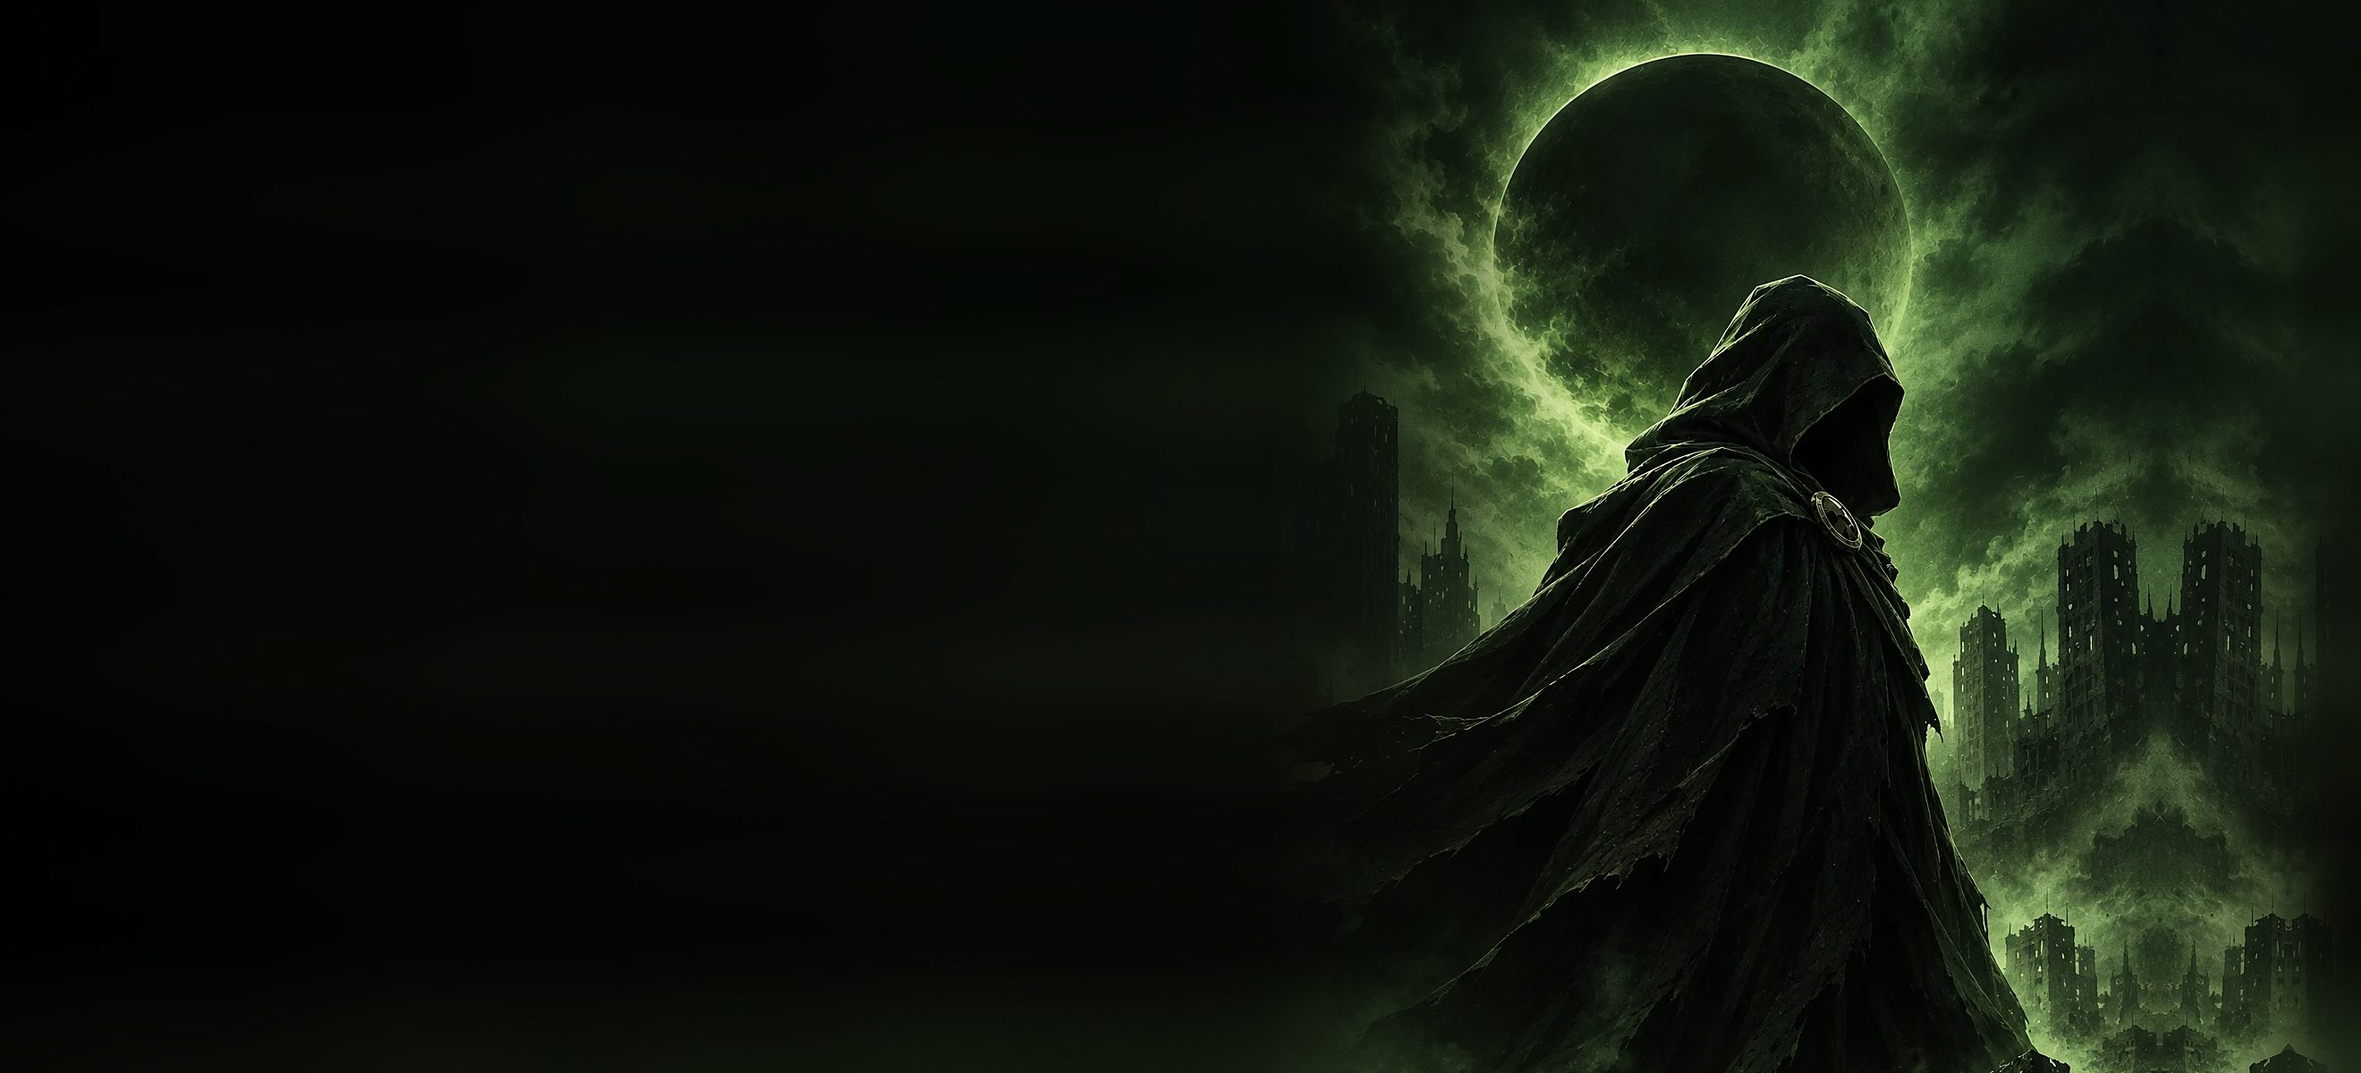
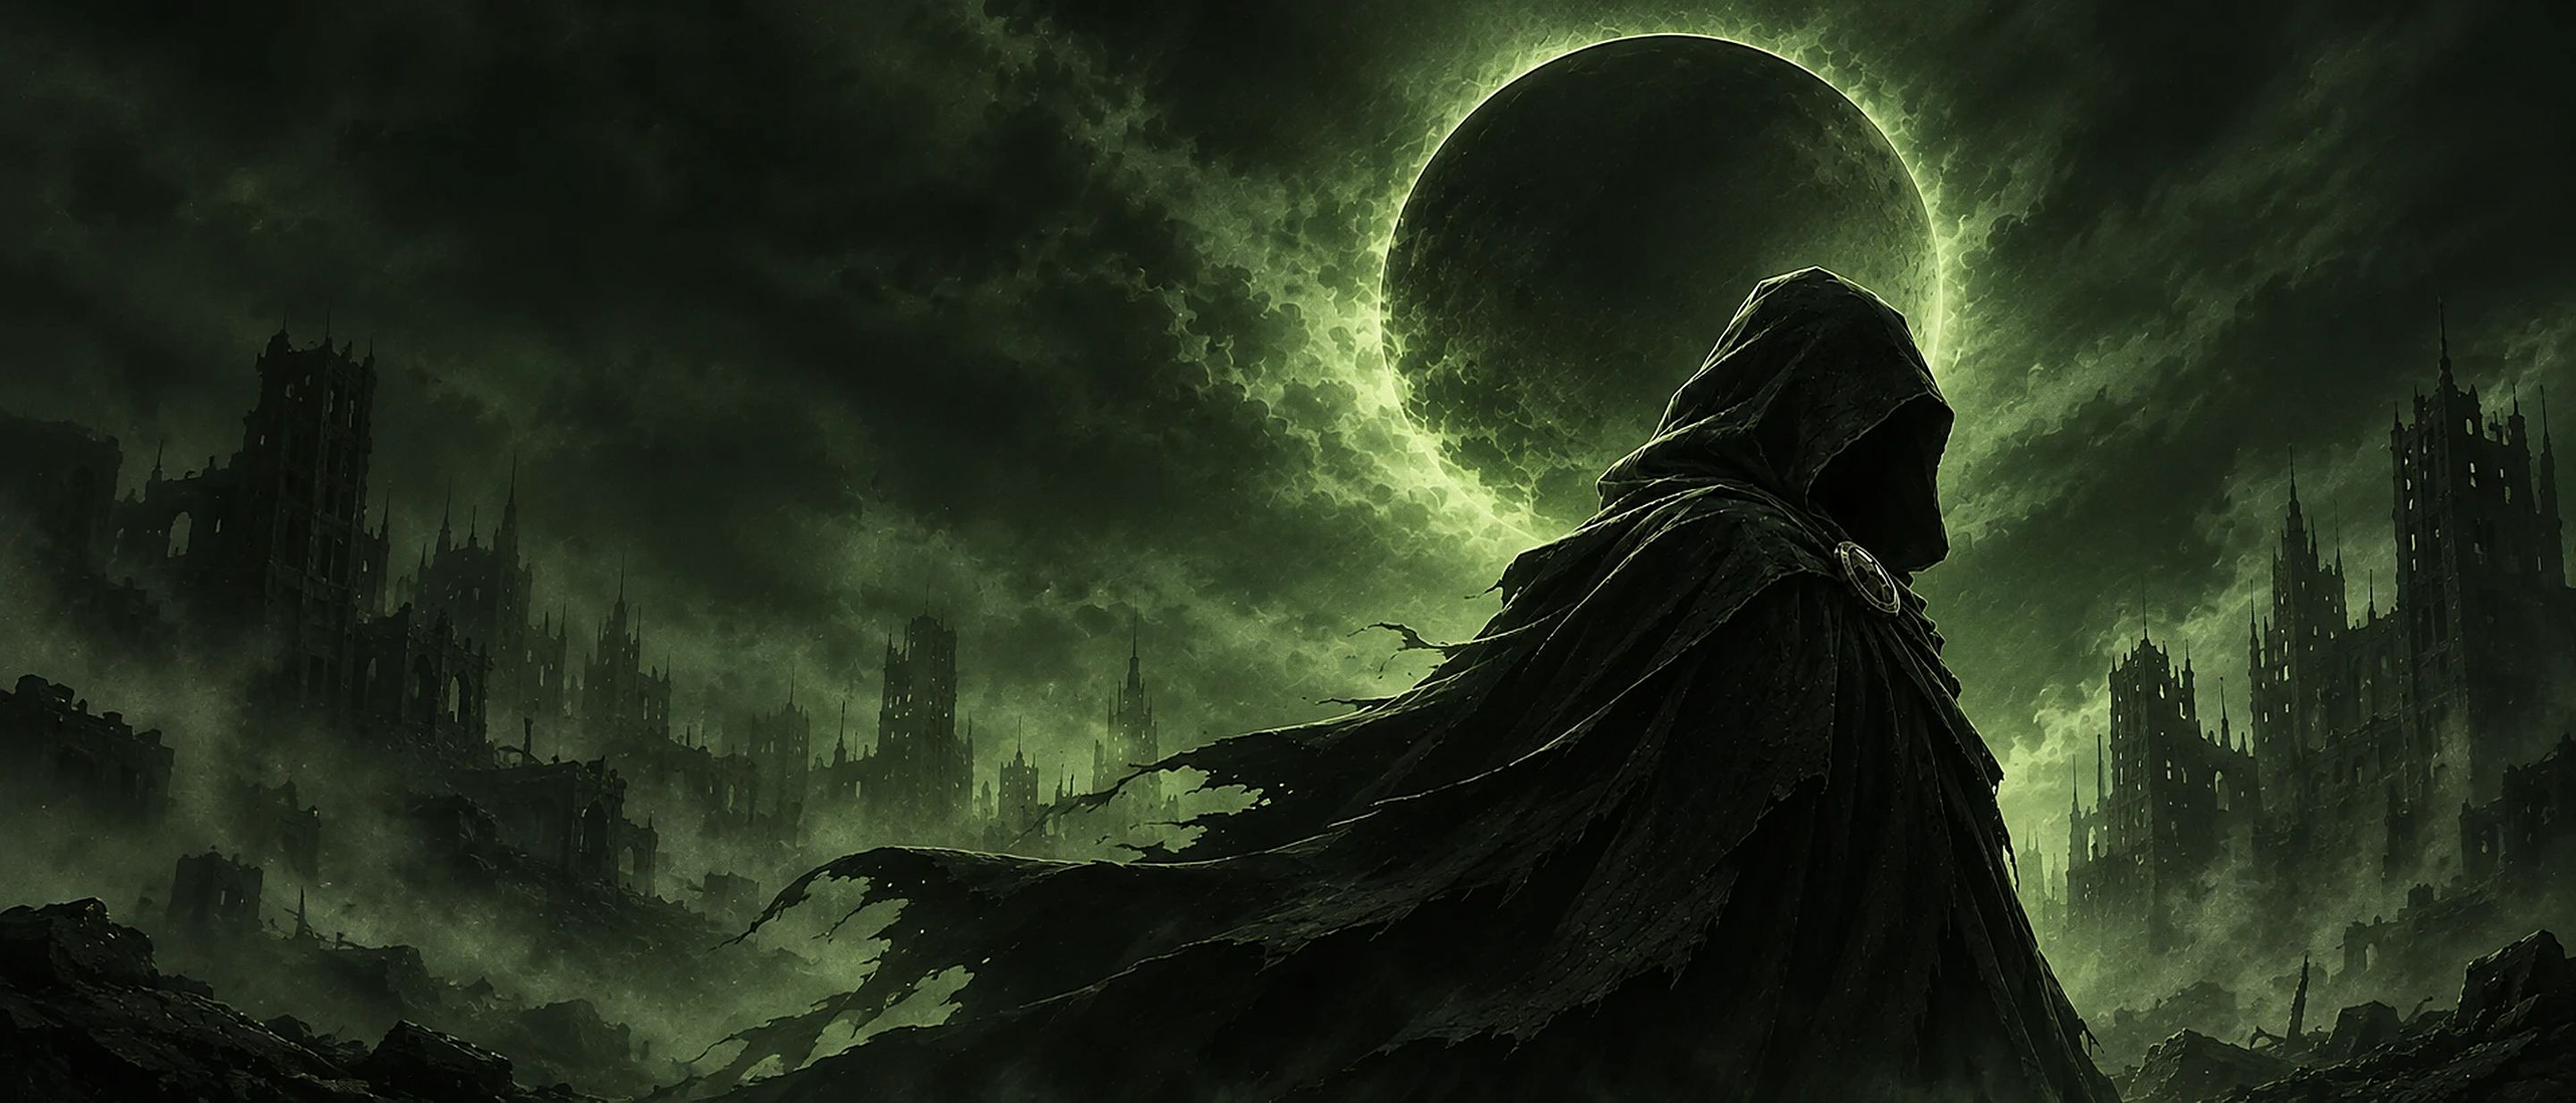
Laptop hero: the club's wide Professor Kalyug scene
Laptops and desktops now use the club's 21:9 art (kalyug-wide.webp): the figure
before the eclipse on the right and the ruined city carrying on across the left,
so the title sits over scenery instead of empty fog. The dark overlay on the
left is much lighter (it only keeps the text readable), and the crop is centred
so the eclipse sits about two thirds across from 1024 px to 2560 px. Phones keep
the portrait.

hero_art.py now takes both pieces of art from assets/art and upscales the wide
one to 2880 px for retina laptops. The link preview is rebuilt from it.

Claude-Session: https://claude.ai/code/session_01EFY1MnNAJYYbQtriE75PiZ

diff --git a/app/(site)/page.tsx b/app/(site)/page.tsx
@@ -41,10 +41,10 @@ export default async function Landing() {
         </div>
 
         <div className="flex min-h-[calc(100svh-6.25rem)] flex-col lg:block lg:min-h-0">
-          {/* Professor Kalyug before the eclipse: the portrait on phones, widened on laptops */}
+          {/* Professor Kalyug before the eclipse: the portrait on phones, the wide scene on laptops */}
           <div className="relative -z-20 min-h-[13rem] flex-1 overflow-hidden lg:absolute lg:inset-0" aria-hidden="true">
-            <HeroArt className="hero-drift object-cover object-[center_22%] lg:object-[72%_25%]" />
-            <div className="absolute inset-0 bg-[linear-gradient(180deg,rgb(8_10_7/0.3),transparent_14%,transparent_62%,var(--color-abyss))] lg:bg-[linear-gradient(90deg,var(--color-abyss)_0%,rgb(8_10_7/0.88)_30%,rgb(8_10_7/0.35)_58%,transparent_78%)]" />
+            <HeroArt className="hero-drift object-cover object-[center_22%] lg:object-[50%_30%]" />
+            <div className="absolute inset-0 bg-[linear-gradient(180deg,rgb(8_10_7/0.3),transparent_14%,transparent_62%,var(--color-abyss))] lg:bg-[linear-gradient(90deg,rgb(8_10_7/0.7)_0%,rgb(8_10_7/0.5)_30%,rgb(8_10_7/0.12)_50%,transparent_62%)]" />
             <div className="absolute inset-x-0 bottom-0 hidden h-28 bg-gradient-to-b from-transparent to-abyss lg:block" />
           </div>
 

diff --git a/components/art/Poster.tsx b/components/art/Poster.tsx
@@ -15,10 +15,10 @@ import { EVENT } from '@/lib/config';
  */
 
 /**
- * The landing hero: Professor Kalyug from the hood to the waist, before the eclipse (the club's
- * character art, see scripts/art/hero_art.py). Phones and tablets get the portrait; screens
- * 1024 px and wider get it widened to 2.2 : 1 with dark fog on the left for the title. The
- * browser downloads only the one it shows.
+ * The landing hero: Professor Kalyug before the eclipse, from the club's character art (see
+ * scripts/art/hero_art.py). Phones and tablets get the portrait (hood to waist); screens 1024 px
+ * and wider get the wide scene, with the ruined city across the left for the title. The browser
+ * downloads only the one it shows.
  */
 export function HeroArt({ className = '' }: { className?: string }) {
   const common = { alt: '', fill: true, sizes: '100vw', fetchPriority: 'high', loading: 'eager' } as const;

diff --git a/scripts/art/hero_art.py b/scripts/art/hero_art.py
@@ -1,88 +1,43 @@
 """
-The landing hero art, from the club's character art of Professor Kalyug
-(assets/art/kalyug-character.webp: hood to waist, the eclipse behind, ruined towers either side).
+The landing hero art, from the club's character art of Professor Kalyug.
 
-    python3 scripts/art/hero_art.py assets/art/kalyug-character.webp assets/art
+    python3 scripts/art/hero_art.py assets/art
+
+Reads (in assets/art):
+  kalyug-character.webp  portrait (2 : 3): hood to waist before the eclipse
+  kalyug-wide.webp       wide (21 : 9): the same scene, the figure on the right and the ruined
+                         city carrying on across the left, as quiet space for the title
 
 Writes:
-  hero.jpg          phones and tablets: the portrait as it is (2 : 3), with the site's grain.
-                    The page frames it on the hood and eclipse (object-position).
-  hero-desktop.jpg  laptops and desktops, 2.2 : 1: the portrait from the eclipse down to the
-                    waist, set right of centre so the title has the left side. Its left edge
-                    dissolves into a dark fog coloured from the picture itself, and the towers on
-                    its right carry on to the edge, so there is no second figure or seam.
+  hero.jpg          phones and tablets: the portrait, with the site's grain. The page frames it
+                    on the hood and eclipse (object-position).
+  hero-desktop.jpg  laptops and desktops: the wide art, upscaled to 2880 px (sharp on a 1440 px
+                    retina screen), lightly sharpened, with the site's grain.
 """
 import os
 import sys
 
-import numpy as np
 from PIL import Image, ImageChops, ImageFilter
 
-ECLIPSE_X = 510          # the eclipse's centre in the source
-BAND = (150, 1350)       # source rows for the desktop art: eclipse top to the waist
-FIGURE_AT = 0.72         # where the eclipse sits across the desktop canvas
+DESKTOP_WIDTH = 2880
 
 
-def grain(im: Image.Image, amount: float = 0.16) -> Image.Image:
+def grain(im: Image.Image, amount: float) -> Image.Image:
     noise = Image.effect_noise(im.size, 28).convert('RGB')
     return ImageChops.blend(im, ImageChops.overlay(im, noise), amount)
 
 
-def feather(width: int, height: int, left: int, right: int) -> Image.Image:
-    """An alpha mask: 0 → 255 over `left` px at the left edge, 255 → 0 over `right` px at the right."""
-    x = np.arange(width, dtype=np.float32)
-    a = np.ones(width, np.float32)
-    if left:
-        a = np.minimum(a, np.clip(x / left, 0, 1))
-    if right:
-        a = np.minimum(a, np.clip((width - 1 - x) / right, 0, 1))
-    a = a * a * (3 - 2 * a)  # smoothstep, so the fade has no visible edge
-    return Image.fromarray(np.tile((a * 255).astype(np.uint8), (height, 1)))
-
-
-def desktop(src: Image.Image) -> Image.Image:
-    band = src.crop((0, BAND[0], src.width, BAND[1]))
-    H = band.height
-    W = round(H * 2.2)
-    x0 = round(FIGURE_AT * W - ECLIPSE_X)
-    rng = np.random.default_rng(11)
-
-    # The fog: each row takes the colour of the picture's own left edge at that height (glow up
-    # high, fog and dark ground below), softly mottled, and sinks into darkness toward the left
-    # where the title sits.
-    edge = np.asarray(band.crop((0, 0, 200, H))).astype(np.float32).mean(axis=1)  # (H, 3)
-    edge = np.asarray(Image.fromarray(np.clip(edge[:, None, :], 0, 255).astype(np.uint8)).resize((1, H)).filter(ImageFilter.GaussianBlur(30))).astype(np.float32)[:, 0, :]
-    mottle = rng.random((6, 22)).astype(np.float32)
-    mottle = np.asarray(Image.fromarray((mottle * 255).astype(np.uint8)).resize((W, H), Image.BICUBIC).filter(ImageFilter.GaussianBlur(60))).astype(np.float32) / 255
-    ramp = np.linspace(0.18, 0.62, W, dtype=np.float32) ** 1.3  # dark at the far left
-    fog = edge[:, None, :] * (ramp[None, :, None] * (0.8 + 0.4 * mottle[..., None]))
-    canvas = Image.fromarray(np.clip(fog, 0, 255).astype(np.uint8))
-
-    # Right of the figure: the towers carry on (the picture's right edge, mirrored), into fog.
-    right_w = W - (x0 + band.width)
-    if right_w > 0:
-        strip = band.crop((band.width - 144, 0, band.width, H)).transpose(Image.FLIP_LEFT_RIGHT)
-        ext = Image.new('RGB', (right_w, H))
-        x, flip = 0, False
-        while x < right_w:
-            ext.paste(strip.transpose(Image.FLIP_LEFT_RIGHT) if flip else strip, (x, 0))
-            x += strip.width
-            flip = not flip
-        fade = feather(right_w, H, 0, right_w)  # 255 at the figure's side, fading out to the edge
-        canvas.paste(ext, (x0 + band.width, 0), fade)
-
-    # The figure: its left edge (fog, tattered cloak) dissolves slowly into the fog.
-    canvas.paste(band, (x0, 0), feather(band.width, H, left=420, right=0))
-    canvas = canvas.filter(ImageFilter.UnsharpMask(radius=1.5, percent=40, threshold=3))
-    return grain(canvas)
-
-
 def main():
-    src_path, outdir = sys.argv[1:3]
-    src = Image.open(src_path).convert('RGB')
-    grain(src, 0.1).save(os.path.join(outdir, 'hero.jpg'), quality=82, optimize=True, progressive=True)
-    desktop(src).save(os.path.join(outdir, 'hero-desktop.jpg'), quality=82, optimize=True, progressive=True)
-    print('hero.jpg, hero-desktop.jpg')
+    art = sys.argv[1]
+    portrait = Image.open(os.path.join(art, 'kalyug-character.webp')).convert('RGB')
+    grain(portrait, 0.1).save(os.path.join(art, 'hero.jpg'), quality=82, optimize=True, progressive=True)
+
+    wide = Image.open(os.path.join(art, 'kalyug-wide.webp')).convert('RGB')
+    if wide.width < DESKTOP_WIDTH:
+        wide = wide.resize((DESKTOP_WIDTH, round(wide.height * DESKTOP_WIDTH / wide.width)), Image.LANCZOS)
+        wide = wide.filter(ImageFilter.UnsharpMask(radius=2, percent=55, threshold=2))
+    grain(wide, 0.14).save(os.path.join(art, 'hero-desktop.jpg'), quality=80, optimize=True, progressive=True)
+    print('hero.jpg', portrait.size, '· hero-desktop.jpg', wide.size)
 
 
 if __name__ == '__main__':

diff --git a/scripts/art/og_image.py b/scripts/art/og_image.py
@@ -12,13 +12,14 @@ W, H = 1200, 630
 hero = Image.open(os.path.join(art, 'hero-desktop.jpg')).convert('RGB')
 scale = H / hero.height
 hero = hero.resize((round(hero.width * scale), H), Image.LANCZOS)
-x0 = hero.width - W  # keep the figure on the right
+ECLIPSE = 0.616  # the eclipse's centre across hero-desktop.jpg
+x0 = max(0, min(hero.width - W, round(ECLIPSE * hero.width - 0.72 * W)))  # eclipse ~72% across
 canvas = hero.crop((x0, 0, x0 + W, H))
 
 # darken the left for the lettering
 shade = Image.new('L', (W, H))
 for x in range(W):
-    v = int(235 * max(0.0, 1 - x / (W * 0.62)))
+    v = int(200 * max(0.0, 1 - x / (W * 0.6)))
     shade.paste(v, (x, 0, x + 1, H))
 canvas = Image.composite(Image.new('RGB', (W, H), (8, 10, 7)), canvas, shade)
 

diff --git a/scripts/art/README.md b/scripts/art/README.md
@@ -6,9 +6,10 @@ real people (spec, tone rules).
 | File (`assets/art/`) | What it is | Made by |
 |---|---|---|
 | `poster.jpg` | The event poster: the source of the wordmark, hood close-up and haze below. It is not shown on the site (its details are still being finalised) | Supplied by the club; `fix_poster.py` corrects "PRESENCES" → "PRESENTS" |
-| `kalyug-character.webp` | The club's character art: Professor Kalyug from hood to waist before the eclipse (no lettering). Source for the hero | Supplied by the club |
-| `hero.jpg` | The landing hero on phones and tablets: the character art as it is (2 : 3) | `hero_art.py` |
-| `hero-desktop.jpg` | The landing hero on laptops and desktops: the character art from eclipse to waist, widened to 2.2 : 1 with dark fog on the left for the title | `hero_art.py` |
+| `kalyug-character.webp` | The club's character art, portrait: Professor Kalyug from hood to waist before the eclipse (no lettering) | Supplied by the club |
+| `kalyug-wide.webp` | The same scene, 21 : 9: the figure on the right, the ruined city across the left for the title | Supplied by the club |
+| `hero.jpg` | The landing hero on phones and tablets: the portrait, with grain | `hero_art.py` |
+| `hero-desktop.jpg` | The landing hero on laptops and desktops: the wide scene, upscaled to 2880 px, with grain | `hero_art.py` |
 | `kalyug.jpg` | Professor Kalyug: the hooded figure and eclipse, cropped from the poster | `derive_from_poster.py` |
 | `kalyug-hood.jpg` | A close-up of the hood (the synopsis "dossier photo") | `derive_from_poster.py` |
 | `wordmark.webp` | The DOOMSDAY lettering, keyed onto transparency | `derive_from_poster.py` |

diff --git a/docs/design-refs/README.md b/docs/design-refs/README.md
@@ -4,9 +4,10 @@
 Professor Kalyug, before a black eclipse with a green corona, over a ruined city, with the
 DOOMSDAY title in cracked silver-green capitals. The site's colours, type and art all come from
 it, but the poster itself is not shown: its details (date, venue, club line) are still being
-finalised. The hero uses the club's character art of Professor Kalyug instead
-(`kalyug-character.webp`, hood to waist before the eclipse) with the poster's DOOMSDAY lettering
-as the title.
+finalised. The hero uses the club's character art of Professor Kalyug instead (hood to waist
+before the eclipse: `kalyug-wide.webp` on laptops, with the ruined city across the left behind
+the title, and `kalyug-character.webp` on phones) with the poster's DOOMSDAY lettering as the
+title.
 
 The other references (Pinterest boards shared in chat, not committed) set the layout language.
 Several are fan art or film/game key art; the website must never use their images or any
